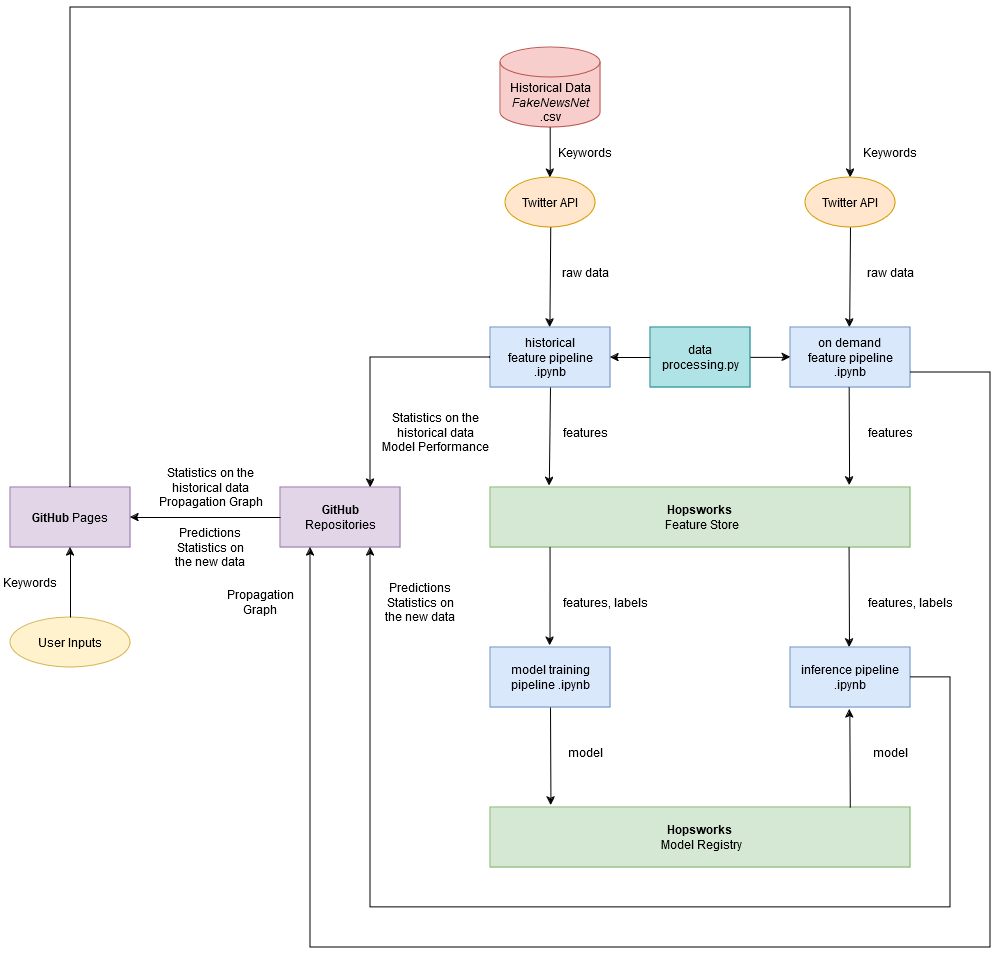
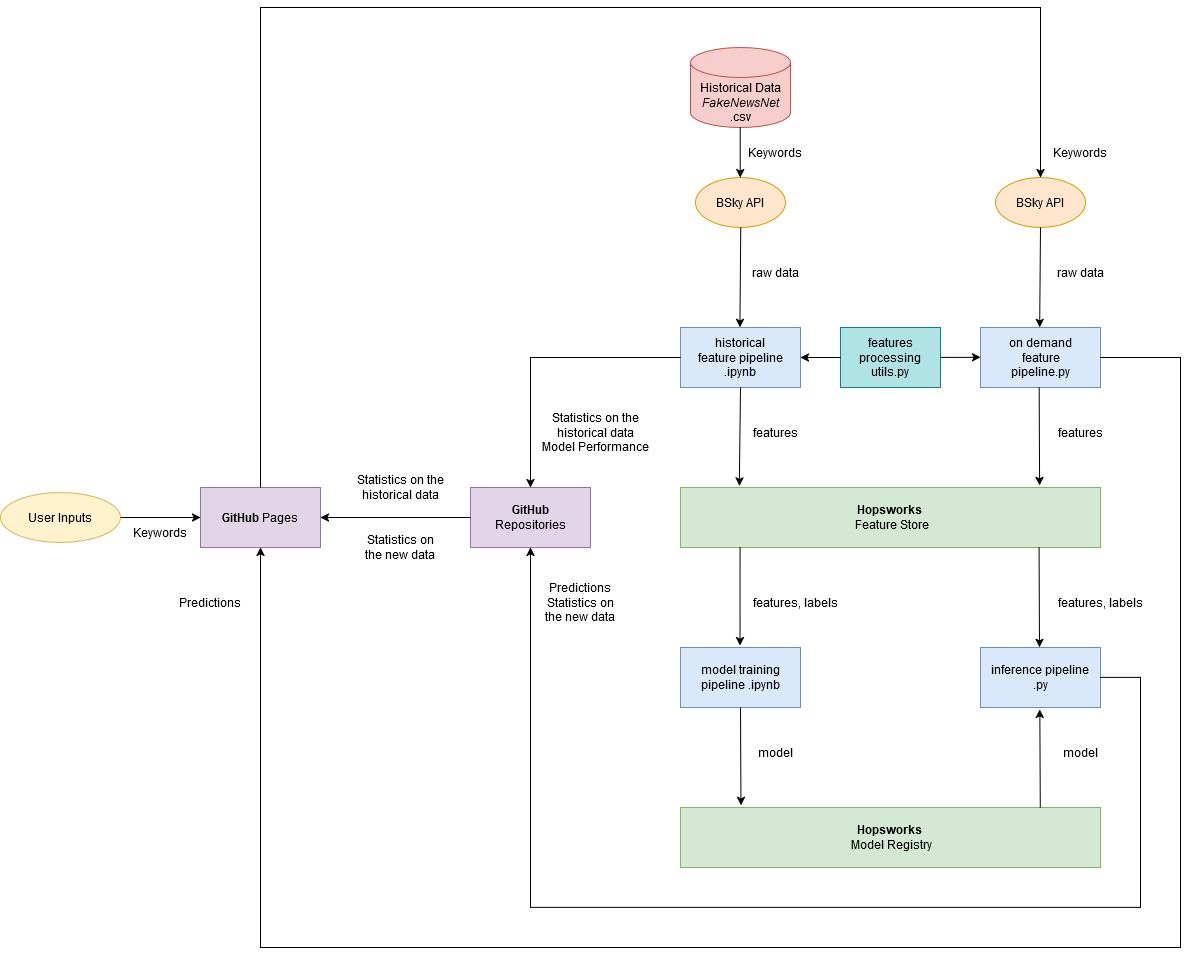
added diagram of project structure

diff --git a/features_processing_utils.py b/features_processing_utils.py
@@ -154,8 +154,6 @@ def get_features(dataframe, label, query=False):
     # Create an empty DataFrame for features
     features_df = pd.DataFrame()
     features_df["news_id"] = news_df.groups.keys()
-    
-    print(features_df)
 
     # Convert date columns to datetime
     dataframe["date"] = pd.to_datetime(dataframe["date"], format='ISO8601', utc=True)
@@ -164,10 +162,20 @@ def get_features(dataframe, label, query=False):
     # Calculate time difference between a post and its reposts in seconds
     dataframe["time_difference"] = (dataframe["date"] - dataframe["retweet_date"]).dt.total_seconds()
 
-    # Calculate average followers and follows
-    features_df["average followers"] = news_df["follower_count"].mean().reset_index()
-    features_df["average follows"] = news_df["follows_count"].mean().reset_index()
+    # Calculate the mean of follower_count for each group and merge with features_df
+    average_followers = news_df["follower_count"].mean().reset_index()
+    features_df = features_df.merge(average_followers, on="news_id", how="left")
 
+    # Similarly, calculate the mean of follows_count for each group and merge
+    average_follows = news_df["follows_count"].mean().reset_index()
+    features_df = features_df.merge(average_follows, on="news_id", how="left")
+
+    # Rename columns for clarity
+    features_df.rename(columns={"follower_count": "average followers", 
+                                "follows_count": "average follows"}, inplace=True)
+    
+    print(features_df)
+    
     # Get the total number of reposts
     features_df["repost total"] = news_df["repost_count"].sum().fillna(0).astype('int64')
 

diff --git a/README.md b/README.md
@@ -1,6 +1,6 @@
-# fake_news_bsky_detector
+# Blye Sky Fake News Detector
 
-Write a report about you have done, the dataset, your method, your results, and how to run the code.
+![Hopsworks Logo](./img/logo.png)
 
 ### Project description
 
@@ -15,7 +15,7 @@ This project implements a pipeline for fake news detection, using the propagatio
 
 The project is divided into the following components:
 
-![Hopsworks Logo](./img/project_structure.png)
+(/img/fake_news_project_structure.png)
 
 ### 1. **Feature Engineering and Data Management**
 - **`features_processing_utils.py`**: Contains utility functions for scraping posts with the Bsky API and processing features about the propagation graph of the posts and their reposts in Bsky.
